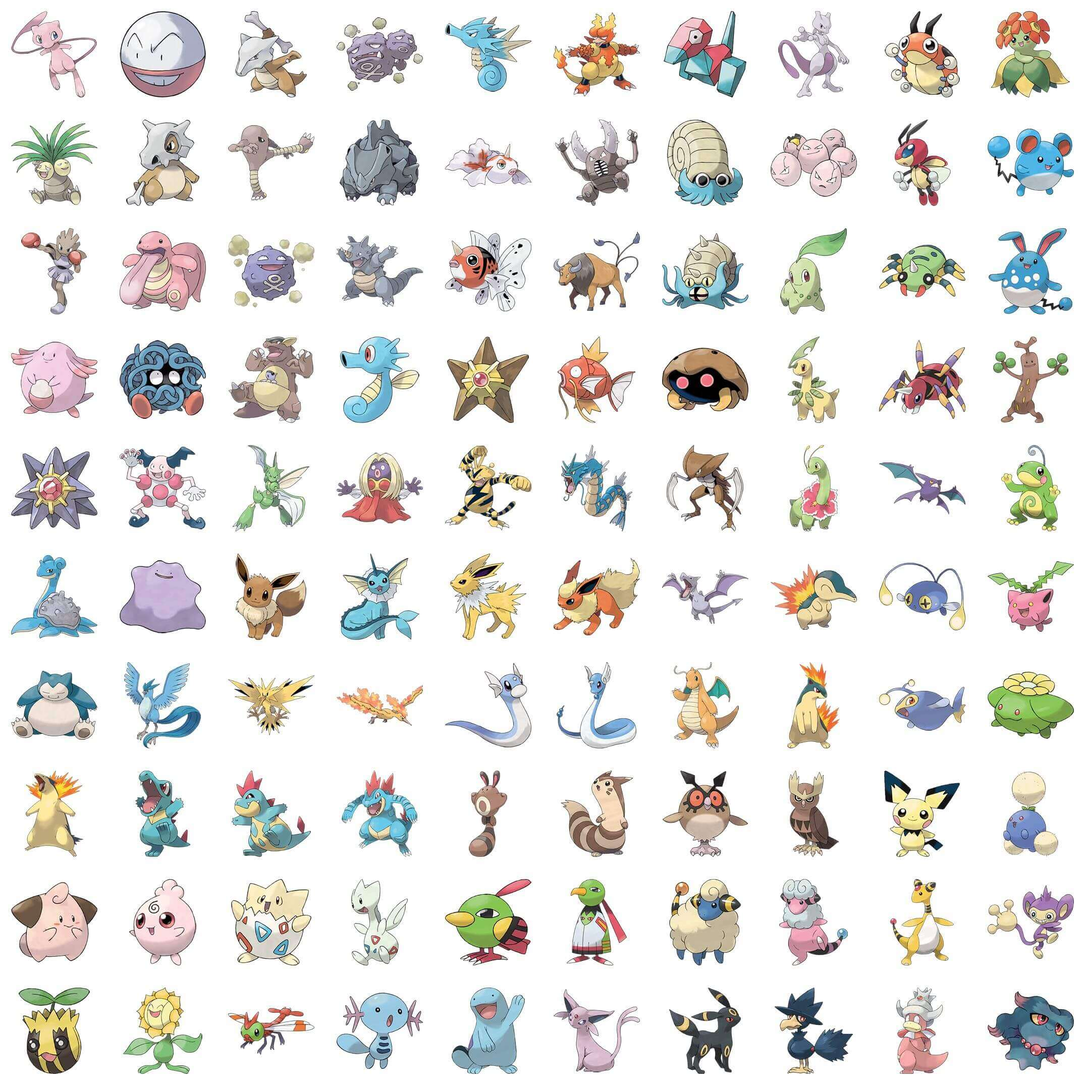
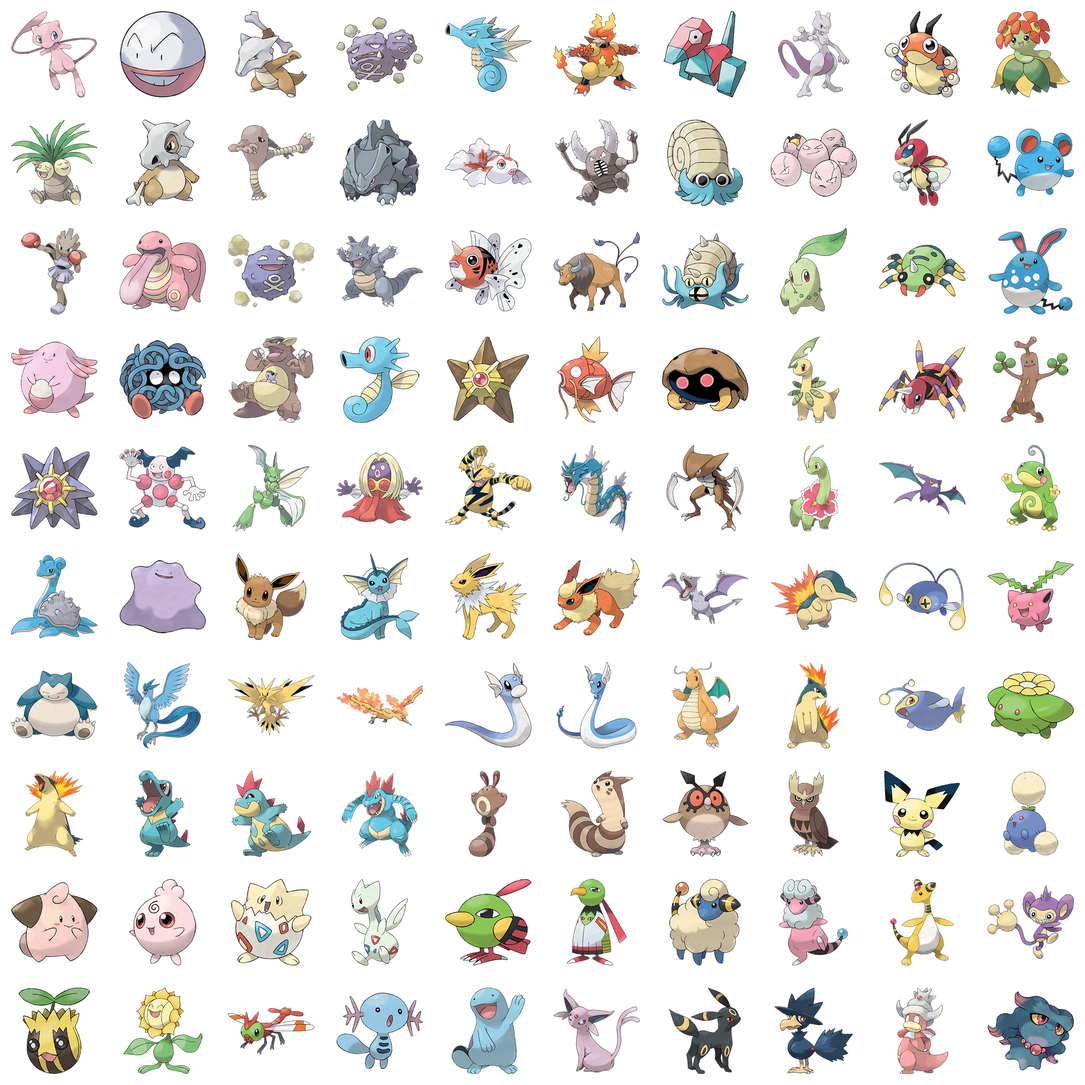
Update sprites

diff --git a/pokemon.min.css b/pokemon.min.css
@@ -1,1 +1,1 @@
-.i100,[class*=i0]{background-image:url(data/pokemon-0.jpg);background-size:1000px 1000px}.i001,.i101,.i201,.i301,.i401,.i501,.i601,.i701{background-position:-100px 0}.i002,.i102,.i202,.i302,.i402,.i502,.i602{background-position:-700px -100px}.i003,.i103,.i203,.i303,.i403,.i503,.i603,.i703{background-position:0 -100px}.i004,.i104,.i204,.i304,.i404,.i504,.i604,.i704{background-position:-100px -100px}.i005,.i105,.i205,.i305,.i405,.i505,.i605,.i705{background-position:-200px 0}.i006,.i106,.i206,.i306,.i406,.i506,.i606,.i706{background-position:-200px -100px}.i007,.i107,.i207,.i307,.i407,.i507,.i607,.i707{background-position:0 -200px}.i008,.i108,.i208,.i308,.i408,.i508,.i608,.i708{background-position:-100px -200px}.i009,.i109,.i209,.i309,.i409,.i509,.i609,.i709{background-position:-200px -200px}.i010,.i110,.i210,.i310,.i410,.i510,.i610,.i710{background-position:-300px 0}.i011,.i111,.i211,.i311,.i411,.i511,.i611,.i702{background-position:-300px -100px}.i012,.i112,.i212,.i312,.i412,.i512,.i612,.i712{background-position:-300px -200px}.i013,.i113,.i213,.i313,.i413,.i513,.i613,.i713{background-position:0 -300px}.i014,.i114,.i214,.i314,.i414,.i514,.i614,.i714{background-position:-100px -300px}.i015,.i115,.i215,.i315,.i415,.i515,.i615,.i715{background-position:-200px -300px}.i016,.i116,.i216,.i316,.i416,.i516,.i616,.i716{background-position:-300px -300px}.i017,.i117,.i217,.i317,.i417,.i517,.i617,.i717{background-position:-400px 0}.i018,.i118,.i218,.i318,.i418,.i518,.i618,.i718{background-position:-400px -100px}.i019,.i119,.i219,.i319,.i419,.i519,.i619,.i719{background-position:-400px -200px}.i020,.i120,.i220,.i320,.i420,.i520,.i620,.i720{background-position:-400px -300px}.i021,.i121,.i221,.i321,.i421,.i521,.i621{background-position:0 -400px}.i022,.i122,.i222,.i322,.i422,.i522,.i622{background-position:-100px -400px}.i023,.i123,.i223,.i323,.i423,.i523,.i623{background-position:-200px -400px}.i024,.i124,.i224,.i324,.i424,.i524,.i624{background-position:-300px -400px}.i025,.i125,.i225,.i325,.i425,.i525,.i625{background-position:-400px -400px}.i026,.i126,.i226,.i326,.i426,.i526,.i626{background-position:-500px 0}.i027,.i127,.i227,.i327,.i427,.i527,.i627{background-position:-500px -100px}.i028,.i128,.i228,.i328,.i428,.i528,.i628{background-position:-500px -200px}.i029,.i129,.i229,.i329,.i429,.i529,.i629{background-position:-500px -300px}.i030,.i130,.i230,.i330,.i430,.i530,.i630{background-position:-500px -400px}.i031,.i131,.i231,.i331,.i431,.i531,.i631{background-position:0 -500px}.i032,.i132,.i232,.i332,.i432,.i532,.i632{background-position:-100px -500px}.i033,.i133,.i233,.i333,.i433,.i533,.i633{background-position:-200px -500px}.i034,.i134,.i234,.i334,.i434,.i534,.i634{background-position:-300px -500px}.i035,.i135,.i235,.i335,.i435,.i535,.i635{background-position:-400px -500px}.i036,.i136,.i236,.i336,.i436,.i536,.i636{background-position:-500px -500px}.i037,.i137,.i237,.i337,.i437,.i537,.i637{background-position:-600px 0}.i038,.i138,.i238,.i338,.i438,.i538,.i638{background-position:-600px -100px}.i039,.i139,.i239,.i339,.i439,.i539,.i639{background-position:-600px -200px}.i040,.i140,.i240,.i340,.i440,.i540,.i640{background-position:-600px -300px}.i041,.i141,.i241,.i341,.i441,.i541,.i641{background-position:-600px -400px}.i042,.i142,.i242,.i342,.i442,.i542,.i642{background-position:-600px -500px}.i043,.i143,.i243,.i343,.i443,.i543,.i643{background-position:0 -600px}.i044,.i144,.i244,.i344,.i444,.i544,.i644{background-position:-100px -600px}.i045,.i145,.i245,.i345,.i445,.i545,.i645{background-position:-200px -600px}.i046,.i146,.i246,.i346,.i446,.i546,.i646{background-position:-300px -600px}.i047,.i147,.i247,.i347,.i447,.i547,.i647{background-position:-400px -600px}.i048,.i148,.i248,.i348,.i448,.i548,.i648{background-position:-500px -600px}.i049,.i149,.i249,.i349,.i449,.i549,.i649{background-position:-600px -600px}.i050,.i150,.i250,.i350,.i450,.i550,.i650{background-position:-700px 0}.i051,.i151,.i251,.i351,.i451,.i551,.i651,.i711{background-position:0 0}.i052,.i152,.i252,.i352,.i452,.i552,.i652{background-position:-700px -200px}.i053,.i153,.i253,.i353,.i453,.i553,.i653{background-position:-700px -300px}.i054,.i154,.i254,.i354,.i454,.i554,.i654{background-position:-700px -400px}.i055,.i155,.i255,.i355,.i455,.i555,.i655{background-position:-700px -500px}.i056,.i156,.i256,.i356,.i456,.i556,.i656{background-position:-700px -600px}.i057,.i157,.i257,.i357,.i457,.i557,.i657{background-position:0 -700px}.i058,.i158,.i258,.i358,.i458,.i558,.i658{background-position:-100px -700px}.i059,.i159,.i259,.i359,.i459,.i559,.i659{background-position:-200px -700px}.i060,.i160,.i260,.i360,.i460,.i560,.i660{background-position:-300px -700px}.i061,.i161,.i261,.i361,.i461,.i561,.i661{background-position:-400px -700px}.i062,.i162,.i262,.i362,.i462,.i562,.i662{background-position:-500px -700px}.i063,.i163,.i263,.i363,.i463,.i563,.i663{background-position:-600px -700px}.i064,.i164,.i264,.i364,.i464,.i564,.i664{background-position:-700px -700px}.i065,.i165,.i265,.i365,.i465,.i565,.i665{background-position:-800px 0}.i066,.i166,.i266,.i366,.i466,.i566,.i666{background-position:-800px -100px}.i067,.i167,.i267,.i367,.i467,.i567,.i667{background-position:-800px -200px}.i068,.i168,.i268,.i368,.i468,.i568,.i668{background-position:-800px -300px}.i069,.i169,.i269,.i369,.i469,.i569,.i669{background-position:-800px -400px}.i070,.i170,.i270,.i370,.i470,.i570,.i670{background-position:-800px -500px}.i071,.i171,.i271,.i371,.i471,.i571,.i671{background-position:-800px -600px}.i072,.i172,.i272,.i372,.i472,.i572,.i672{background-position:-800px -700px}.i073,.i173,.i273,.i373,.i473,.i573,.i673{background-position:0 -800px}.i074,.i174,.i274,.i374,.i474,.i574,.i674{background-position:-100px -800px}.i075,.i175,.i275,.i375,.i475,.i575,.i675{background-position:-200px -800px}.i076,.i176,.i276,.i376,.i476,.i576,.i676{background-position:-300px -800px}.i077,.i177,.i277,.i377,.i477,.i577,.i677{background-position:-400px -800px}.i078,.i178,.i278,.i378,.i478,.i578,.i678{background-position:-500px -800px}.i079,.i179,.i279,.i379,.i479,.i579,.i679{background-position:-600px -800px}.i080,.i180,.i280,.i380,.i480,.i580,.i680{background-position:-700px -800px}.i081,.i181,.i281,.i381,.i481,.i581,.i681{background-position:-800px -800px}.i082,.i182,.i282,.i382,.i482,.i582,.i682{background-position:-900px 0}.i083,.i183,.i283,.i383,.i483,.i583,.i683{background-position:-900px -100px}.i084,.i184,.i284,.i384,.i484,.i584,.i684{background-position:-900px -200px}.i085,.i185,.i285,.i385,.i485,.i585,.i685{background-position:-900px -300px}.i086,.i186,.i286,.i386,.i486,.i586,.i686{background-position:-900px -400px}.i087,.i187,.i287,.i387,.i487,.i587,.i687{background-position:-900px -500px}.i088,.i188,.i288,.i388,.i488,.i588,.i688{background-position:-900px -600px}.i089,.i189,.i289,.i389,.i489,.i589,.i689{background-position:-900px -700px}.i090,.i190,.i290,.i390,.i490,.i590,.i690{background-position:-900px -800px}.i091,.i191,.i291,.i391,.i491,.i591,.i691{background-position:0 -900px}.i092,.i192,.i292,.i392,.i492,.i592,.i692{background-position:-100px -900px}.i093,.i193,.i293,.i393,.i493,.i593,.i693{background-position:-200px -900px}.i094,.i194,.i294,.i394,.i494,.i594,.i694{background-position:-300px -900px}.i095,.i195,.i295,.i395,.i495,.i595,.i695{background-position:-400px -900px}.i096,.i196,.i296,.i396,.i496,.i596,.i696{background-position:-500px -900px}.i097,.i197,.i297,.i397,.i497,.i597,.i697{background-position:-600px -900px}.i098,.i198,.i298,.i398,.i498,.i598,.i698{background-position:-700px -900px}.i099,.i199,.i299,.i399,.i499,.i599,.i699{background-position:-800px -900px}.i100,.i200,.i300,.i400,.i500,.i600,.i700{background-position:-900px -900px}.i200,[class*=i1]:not(.i100){background-image:url(data/pokemon-1.jpg);background-size:1000px 1000px}.i300,[class*=i2]:not(.i200){background-image:url(data/pokemon-2.jpg);background-size:1000px 1000px}.i400,[class*=i3]:not(.i300){background-image:url(data/pokemon-3.jpg);background-size:1000px 1000px}.i500,[class*=i4]:not(.i400){background-image:url(data/pokemon-4.jpg);background-size:1000px 1000px}.i600,[class*=i5]:not(.i500){background-image:url(data/pokemon-5.jpg);background-size:1000px 1000px}.i700,[class*=i6]:not(.i600){background-image:url(data/pokemon-6.jpg);background-size:1000px 1000px}.i800,[class*=i7]:not(.i700){background-image:url(data/pokemon-7.jpg);background-size:500px 400px}
+.i200,[class*=i1]:not(.i100){background-image:url(data/pokemon-1.jpg);background-size:1000px 1000px}.i101{background-position:-100px 0}.i102{background-position:-700px -100px}.i103{background-position:0 -100px}.i104{background-position:-100px -100px}.i105{background-position:-200px 0}.i106{background-position:-200px -100px}.i107{background-position:0 -200px}.i108{background-position:-100px -200px}.i109{background-position:-200px -200px}.i110{background-position:-300px 0}.i111{background-position:-300px -100px}.i112{background-position:-300px -200px}.i113{background-position:0 -300px}.i114{background-position:-100px -300px}.i115{background-position:-200px -300px}.i116{background-position:-300px -300px}.i117{background-position:-400px 0}.i118{background-position:-400px -100px}.i119{background-position:-400px -200px}.i120{background-position:-400px -300px}.i121{background-position:0 -400px}.i122{background-position:-100px -400px}.i123{background-position:-200px -400px}.i124{background-position:-300px -400px}.i125{background-position:-400px -400px}.i126{background-position:-500px 0}.i127{background-position:-500px -100px}.i128{background-position:-500px -200px}.i129{background-position:-500px -300px}.i130{background-position:-500px -400px}.i131{background-position:0 -500px}.i132{background-position:-100px -500px}.i133{background-position:-200px -500px}.i134{background-position:-300px -500px}.i135{background-position:-400px -500px}.i136{background-position:-500px -500px}.i137{background-position:-600px 0}.i138{background-position:-600px -100px}.i139{background-position:-600px -200px}.i140{background-position:-600px -300px}.i141{background-position:-600px -400px}.i142{background-position:-600px -500px}.i143{background-position:0 -600px}.i144{background-position:-100px -600px}.i145{background-position:-200px -600px}.i146{background-position:-300px -600px}.i147{background-position:-400px -600px}.i148{background-position:-500px -600px}.i149{background-position:-600px -600px}.i150{background-position:-700px 0}.i151{background-position:0 0}.i152{background-position:-700px -200px}.i153{background-position:-700px -300px}.i154{background-position:-700px -400px}.i155{background-position:-700px -500px}.i156{background-position:-700px -600px}.i157{background-position:0 -700px}.i158{background-position:-100px -700px}.i159{background-position:-200px -700px}.i160{background-position:-300px -700px}.i161{background-position:-400px -700px}.i162{background-position:-500px -700px}.i163{background-position:-600px -700px}.i164{background-position:-700px -700px}.i165{background-position:-800px 0}.i166{background-position:-800px -100px}.i167{background-position:-800px -200px}.i168{background-position:-800px -300px}.i169{background-position:-800px -400px}.i170{background-position:-800px -500px}.i171{background-position:-800px -600px}.i172{background-position:-800px -700px}.i173{background-position:0 -800px}.i174{background-position:-100px -800px}.i175{background-position:-200px -800px}.i176{background-position:-300px -800px}.i177{background-position:-400px -800px}.i178{background-position:-500px -800px}.i179{background-position:-600px -800px}.i180{background-position:-700px -800px}.i181{background-position:-800px -800px}.i182{background-position:-900px 0}.i183{background-position:-900px -100px}.i184{background-position:-900px -200px}.i185{background-position:-900px -300px}.i186{background-position:-900px -400px}.i187{background-position:-900px -500px}.i188{background-position:-900px -600px}.i189{background-position:-900px -700px}.i190{background-position:-900px -800px}.i191{background-position:0 -900px}.i192{background-position:-100px -900px}.i193{background-position:-200px -900px}.i194{background-position:-300px -900px}.i195{background-position:-400px -900px}.i196{background-position:-500px -900px}.i197{background-position:-600px -900px}.i198{background-position:-700px -900px}.i199{background-position:-800px -900px}.i200{background-position:-900px -900px}.i300,[class*=i2]:not(.i200){background-image:url(data/pokemon-2.jpg);background-size:1000px 1000px}.i201{background-position:-100px 0}.i202{background-position:-700px -100px}.i203{background-position:0 -100px}.i204{background-position:-100px -100px}.i205{background-position:-200px 0}.i206{background-position:-200px -100px}.i207{background-position:0 -200px}.i208{background-position:-100px -200px}.i209{background-position:-200px -200px}.i210{background-position:-300px 0}.i211{background-position:-300px -100px}.i212{background-position:-300px -200px}.i213{background-position:0 -300px}.i214{background-position:-100px -300px}.i215{background-position:-200px -300px}.i216{background-position:-300px -300px}.i217{background-position:-400px 0}.i218{background-position:-400px -100px}.i219{background-position:-400px -200px}.i220{background-position:-400px -300px}.i221{background-position:0 -400px}.i222{background-position:-100px -400px}.i223{background-position:-200px -400px}.i224{background-position:-300px -400px}.i225{background-position:-400px -400px}.i226{background-position:-500px 0}.i227{background-position:-500px -100px}.i228{background-position:-500px -200px}.i229{background-position:-500px -300px}.i230{background-position:-500px -400px}.i231{background-position:0 -500px}.i232{background-position:-100px -500px}.i233{background-position:-200px -500px}.i234{background-position:-300px -500px}.i235{background-position:-400px -500px}.i236{background-position:-500px -500px}.i237{background-position:-600px 0}.i238{background-position:-600px -100px}.i239{background-position:-600px -200px}.i240{background-position:-600px -300px}.i241{background-position:-600px -400px}.i242{background-position:-600px -500px}.i243{background-position:0 -600px}.i244{background-position:-100px -600px}.i245{background-position:-200px -600px}.i246{background-position:-300px -600px}.i247{background-position:-400px -600px}.i248{background-position:-500px -600px}.i249{background-position:-600px -600px}.i250{background-position:-700px 0}.i251{background-position:0 0}.i252{background-position:-700px -200px}.i253{background-position:-700px -300px}.i254{background-position:-700px -400px}.i255{background-position:-700px -500px}.i256{background-position:-700px -600px}.i257{background-position:0 -700px}.i258{background-position:-100px -700px}.i259{background-position:-200px -700px}.i260{background-position:-300px -700px}.i261{background-position:-400px -700px}.i262{background-position:-500px -700px}.i263{background-position:-600px -700px}.i264{background-position:-700px -700px}.i265{background-position:-800px 0}.i266{background-position:-800px -100px}.i267{background-position:-800px -200px}.i268{background-position:-800px -300px}.i269{background-position:-800px -400px}.i270{background-position:-800px -500px}.i271{background-position:-800px -600px}.i272{background-position:-800px -700px}.i273{background-position:0 -800px}.i274{background-position:-100px -800px}.i275{background-position:-200px -800px}.i276{background-position:-300px -800px}.i277{background-position:-400px -800px}.i278{background-position:-500px -800px}.i279{background-position:-600px -800px}.i280{background-position:-700px -800px}.i281{background-position:-800px -800px}.i282{background-position:-900px 0}.i283{background-position:-900px -100px}.i284{background-position:-900px -200px}.i285{background-position:-900px -300px}.i286{background-position:-900px -400px}.i287{background-position:-900px -500px}.i288{background-position:-900px -600px}.i289{background-position:-900px -700px}.i290{background-position:-900px -800px}.i291{background-position:0 -900px}.i292{background-position:-100px -900px}.i293{background-position:-200px -900px}.i294{background-position:-300px -900px}.i295{background-position:-400px -900px}.i296{background-position:-500px -900px}.i297{background-position:-600px -900px}.i298{background-position:-700px -900px}.i299{background-position:-800px -900px}.i300{background-position:-900px -900px}.i400,[class*=i3]:not(.i300){background-image:url(data/pokemon-3.jpg);background-size:1000px 1000px}.i301{background-position:-100px 0}.i302{background-position:-700px -100px}.i303{background-position:0 -100px}.i304{background-position:-100px -100px}.i305{background-position:-200px 0}.i306{background-position:-200px -100px}.i307{background-position:0 -200px}.i308{background-position:-100px -200px}.i309{background-position:-200px -200px}.i310{background-position:-300px 0}.i311{background-position:-300px -100px}.i312{background-position:-300px -200px}.i313{background-position:0 -300px}.i314{background-position:-100px -300px}.i315{background-position:-200px -300px}.i316{background-position:-300px -300px}.i317{background-position:-400px 0}.i318{background-position:-400px -100px}.i319{background-position:-400px -200px}.i320{background-position:-400px -300px}.i321{background-position:0 -400px}.i322{background-position:-100px -400px}.i323{background-position:-200px -400px}.i324{background-position:-300px -400px}.i325{background-position:-400px -400px}.i326{background-position:-500px 0}.i327{background-position:-500px -100px}.i328{background-position:-500px -200px}.i329{background-position:-500px -300px}.i330{background-position:-500px -400px}.i331{background-position:0 -500px}.i332{background-position:-100px -500px}.i333{background-position:-200px -500px}.i334{background-position:-300px -500px}.i335{background-position:-400px -500px}.i336{background-position:-500px -500px}.i337{background-position:-600px 0}.i338{background-position:-600px -100px}.i339{background-position:-600px -200px}.i340{background-position:-600px -300px}.i341{background-position:-600px -400px}.i342{background-position:-600px -500px}.i343{background-position:0 -600px}.i344{background-position:-100px -600px}.i345{background-position:-200px -600px}.i346{background-position:-300px -600px}.i347{background-position:-400px -600px}.i348{background-position:-500px -600px}.i349{background-position:-600px -600px}.i350{background-position:-700px 0}.i351{background-position:0 0}.i352{background-position:-700px -200px}.i353{background-position:-700px -300px}.i354{background-position:-700px -400px}.i355{background-position:-700px -500px}.i356{background-position:-700px -600px}.i357{background-position:0 -700px}.i358{background-position:-100px -700px}.i359{background-position:-200px -700px}.i360{background-position:-300px -700px}.i361{background-position:-400px -700px}.i362{background-position:-500px -700px}.i363{background-position:-600px -700px}.i364{background-position:-700px -700px}.i365{background-position:-800px 0}.i366{background-position:-800px -100px}.i367{background-position:-800px -200px}.i368{background-position:-800px -300px}.i369{background-position:-800px -400px}.i370{background-position:-800px -500px}.i371{background-position:-800px -600px}.i372{background-position:-800px -700px}.i373{background-position:0 -800px}.i374{background-position:-100px -800px}.i375{background-position:-200px -800px}.i376{background-position:-300px -800px}.i377{background-position:-400px -800px}.i378{background-position:-500px -800px}.i379{background-position:-600px -800px}.i380{background-position:-700px -800px}.i381{background-position:-800px -800px}.i382{background-position:-900px 0}.i383{background-position:-900px -100px}.i384{background-position:-900px -200px}.i385{background-position:-900px -300px}.i386{background-position:-900px -400px}.i387{background-position:-900px -500px}.i388{background-position:-900px -600px}.i389{background-position:-900px -700px}.i390{background-position:-900px -800px}.i391{background-position:0 -900px}.i392{background-position:-100px -900px}.i393{background-position:-200px -900px}.i394{background-position:-300px -900px}.i395{background-position:-400px -900px}.i396{background-position:-500px -900px}.i397{background-position:-600px -900px}.i398{background-position:-700px -900px}.i399{background-position:-800px -900px}.i400{background-position:-900px -900px}.i500,[class*=i4]:not(.i400){background-image:url(data/pokemon-4.jpg);background-size:1000px 1000px}.i401{background-position:-100px 0}.i402{background-position:-700px -100px}.i403{background-position:0 -100px}.i404{background-position:-100px -100px}.i405{background-position:-200px 0}.i406{background-position:-200px -100px}.i407{background-position:0 -200px}.i408{background-position:-100px -200px}.i409{background-position:-200px -200px}.i410{background-position:-300px 0}.i411{background-position:-300px -100px}.i412{background-position:-300px -200px}.i413{background-position:0 -300px}.i414{background-position:-100px -300px}.i415{background-position:-200px -300px}.i416{background-position:-300px -300px}.i417{background-position:-400px 0}.i418{background-position:-400px -100px}.i419{background-position:-400px -200px}.i420{background-position:-400px -300px}.i421{background-position:0 -400px}.i422{background-position:-100px -400px}.i423{background-position:-200px -400px}.i424{background-position:-300px -400px}.i425{background-position:-400px -400px}.i426{background-position:-500px 0}.i427{background-position:-500px -100px}.i428{background-position:-500px -200px}.i429{background-position:-500px -300px}.i430{background-position:-500px -400px}.i431{background-position:0 -500px}.i432{background-position:-100px -500px}.i433{background-position:-200px -500px}.i434{background-position:-300px -500px}.i435{background-position:-400px -500px}.i436{background-position:-500px -500px}.i437{background-position:-600px 0}.i438{background-position:-600px -100px}.i439{background-position:-600px -200px}.i440{background-position:-600px -300px}.i441{background-position:-600px -400px}.i442{background-position:-600px -500px}.i443{background-position:0 -600px}.i444{background-position:-100px -600px}.i445{background-position:-200px -600px}.i446{background-position:-300px -600px}.i447{background-position:-400px -600px}.i448{background-position:-500px -600px}.i449{background-position:-600px -600px}.i450{background-position:-700px 0}.i451{background-position:0 0}.i452{background-position:-700px -200px}.i453{background-position:-700px -300px}.i454{background-position:-700px -400px}.i455{background-position:-700px -500px}.i456{background-position:-700px -600px}.i457{background-position:0 -700px}.i458{background-position:-100px -700px}.i459{background-position:-200px -700px}.i460{background-position:-300px -700px}.i461{background-position:-400px -700px}.i462{background-position:-500px -700px}.i463{background-position:-600px -700px}.i464{background-position:-700px -700px}.i465{background-position:-800px 0}.i466{background-position:-800px -100px}.i467{background-position:-800px -200px}.i468{background-position:-800px -300px}.i469{background-position:-800px -400px}.i470{background-position:-800px -500px}.i471{background-position:-800px -600px}.i472{background-position:-800px -700px}.i473{background-position:0 -800px}.i474{background-position:-100px -800px}.i475{background-position:-200px -800px}.i476{background-position:-300px -800px}.i477{background-position:-400px -800px}.i478{background-position:-500px -800px}.i479{background-position:-600px -800px}.i480{background-position:-700px -800px}.i481{background-position:-800px -800px}.i482{background-position:-900px 0}.i483{background-position:-900px -100px}.i484{background-position:-900px -200px}.i485{background-position:-900px -300px}.i486{background-position:-900px -400px}.i487{background-position:-900px -500px}.i488{background-position:-900px -600px}.i489{background-position:-900px -700px}.i490{background-position:-900px -800px}.i491{background-position:0 -900px}.i492{background-position:-100px -900px}.i493{background-position:-200px -900px}.i494{background-position:-300px -900px}.i495{background-position:-400px -900px}.i496{background-position:-500px -900px}.i497{background-position:-600px -900px}.i498{background-position:-700px -900px}.i499{background-position:-800px -900px}.i500{background-position:-900px -900px}.i600,[class*=i5]:not(.i500){background-image:url(data/pokemon-5.jpg);background-size:1000px 1000px}.i501{background-position:-100px 0}.i502{background-position:-700px -100px}.i503{background-position:0 -100px}.i504{background-position:-100px -100px}.i505{background-position:-200px 0}.i506{background-position:-200px -100px}.i507{background-position:0 -200px}.i508{background-position:-100px -200px}.i509{background-position:-200px -200px}.i510{background-position:-300px 0}.i511{background-position:-300px -100px}.i512{background-position:-300px -200px}.i513{background-position:0 -300px}.i514{background-position:-100px -300px}.i515{background-position:-200px -300px}.i516{background-position:-300px -300px}.i517{background-position:-400px 0}.i518{background-position:-400px -100px}.i519{background-position:-400px -200px}.i520{background-position:-400px -300px}.i521{background-position:0 -400px}.i522{background-position:-100px -400px}.i523{background-position:-200px -400px}.i524{background-position:-300px -400px}.i525{background-position:-400px -400px}.i526{background-position:-500px 0}.i527{background-position:-500px -100px}.i528{background-position:-500px -200px}.i529{background-position:-500px -300px}.i530{background-position:-500px -400px}.i531{background-position:0 -500px}.i532{background-position:-100px -500px}.i533{background-position:-200px -500px}.i534{background-position:-300px -500px}.i535{background-position:-400px -500px}.i536{background-position:-500px -500px}.i537{background-position:-600px 0}.i538{background-position:-600px -100px}.i539{background-position:-600px -200px}.i540{background-position:-600px -300px}.i541{background-position:-600px -400px}.i542{background-position:-600px -500px}.i543{background-position:0 -600px}.i544{background-position:-100px -600px}.i545{background-position:-200px -600px}.i546{background-position:-300px -600px}.i547{background-position:-400px -600px}.i548{background-position:-500px -600px}.i549{background-position:-600px -600px}.i550{background-position:-700px 0}.i551{background-position:0 0}.i552{background-position:-700px -200px}.i553{background-position:-700px -300px}.i554{background-position:-700px -400px}.i555{background-position:-700px -500px}.i556{background-position:-700px -600px}.i557{background-position:0 -700px}.i558{background-position:-100px -700px}.i559{background-position:-200px -700px}.i560{background-position:-300px -700px}.i561{background-position:-400px -700px}.i562{background-position:-500px -700px}.i563{background-position:-600px -700px}.i564{background-position:-700px -700px}.i565{background-position:-800px 0}.i566{background-position:-800px -100px}.i567{background-position:-800px -200px}.i568{background-position:-800px -300px}.i569{background-position:-800px -400px}.i570{background-position:-800px -500px}.i571{background-position:-800px -600px}.i572{background-position:-800px -700px}.i573{background-position:0 -800px}.i574{background-position:-100px -800px}.i575{background-position:-200px -800px}.i576{background-position:-300px -800px}.i577{background-position:-400px -800px}.i578{background-position:-500px -800px}.i579{background-position:-600px -800px}.i580{background-position:-700px -800px}.i581{background-position:-800px -800px}.i582{background-position:-900px 0}.i583{background-position:-900px -100px}.i584{background-position:-900px -200px}.i585{background-position:-900px -300px}.i586{background-position:-900px -400px}.i587{background-position:-900px -500px}.i588{background-position:-900px -600px}.i589{background-position:-900px -700px}.i590{background-position:-900px -800px}.i591{background-position:0 -900px}.i592{background-position:-100px -900px}.i593{background-position:-200px -900px}.i594{background-position:-300px -900px}.i595{background-position:-400px -900px}.i596{background-position:-500px -900px}.i597{background-position:-600px -900px}.i598{background-position:-700px -900px}.i599{background-position:-800px -900px}.i600{background-position:-900px -900px}.i700,[class*=i6]:not(.i600){background-image:url(data/pokemon-6.jpg);background-size:1000px 1000px}.i601{background-position:-100px 0}.i602{background-position:-700px -100px}.i603{background-position:0 -100px}.i604{background-position:-100px -100px}.i605{background-position:-200px 0}.i606{background-position:-200px -100px}.i607{background-position:0 -200px}.i608{background-position:-100px -200px}.i609{background-position:-200px -200px}.i610{background-position:-300px 0}.i611{background-position:-300px -100px}.i612{background-position:-300px -200px}.i613{background-position:0 -300px}.i614{background-position:-100px -300px}.i615{background-position:-200px -300px}.i616{background-position:-300px -300px}.i617{background-position:-400px 0}.i618{background-position:-400px -100px}.i619{background-position:-400px -200px}.i620{background-position:-400px -300px}.i621{background-position:0 -400px}.i622{background-position:-100px -400px}.i623{background-position:-200px -400px}.i624{background-position:-300px -400px}.i625{background-position:-400px -400px}.i626{background-position:-500px 0}.i627{background-position:-500px -100px}.i628{background-position:-500px -200px}.i629{background-position:-500px -300px}.i630{background-position:-500px -400px}.i631{background-position:0 -500px}.i632{background-position:-100px -500px}.i633{background-position:-200px -500px}.i634{background-position:-300px -500px}.i635{background-position:-400px -500px}.i636{background-position:-500px -500px}.i637{background-position:-600px 0}.i638{background-position:-600px -100px}.i639{background-position:-600px -200px}.i640{background-position:-600px -300px}.i641{background-position:-600px -400px}.i642{background-position:-600px -500px}.i643{background-position:0 -600px}.i644{background-position:-100px -600px}.i645{background-position:-200px -600px}.i646{background-position:-300px -600px}.i647{background-position:-400px -600px}.i648{background-position:-500px -600px}.i649{background-position:-600px -600px}.i650{background-position:-700px 0}.i651{background-position:0 0}.i652{background-position:-700px -200px}.i653{background-position:-700px -300px}.i654{background-position:-700px -400px}.i655{background-position:-700px -500px}.i656{background-position:-700px -600px}.i657{background-position:0 -700px}.i658{background-position:-100px -700px}.i659{background-position:-200px -700px}.i660{background-position:-300px -700px}.i661{background-position:-400px -700px}.i662{background-position:-500px -700px}.i663{background-position:-600px -700px}.i664{background-position:-700px -700px}.i665{background-position:-800px 0}.i666{background-position:-800px -100px}.i667{background-position:-800px -200px}.i668{background-position:-800px -300px}.i669{background-position:-800px -400px}.i670{background-position:-800px -500px}.i671{background-position:-800px -600px}.i672{background-position:-800px -700px}.i673{background-position:0 -800px}.i674{background-position:-100px -800px}.i675{background-position:-200px -800px}.i676{background-position:-300px -800px}.i677{background-position:-400px -800px}.i678{background-position:-500px -800px}.i679{background-position:-600px -800px}.i680{background-position:-700px -800px}.i681{background-position:-800px -800px}.i682{background-position:-900px 0}.i683{background-position:-900px -100px}.i684{background-position:-900px -200px}.i685{background-position:-900px -300px}.i686{background-position:-900px -400px}.i687{background-position:-900px -500px}.i688{background-position:-900px -600px}.i689{background-position:-900px -700px}.i690{background-position:-900px -800px}.i691{background-position:0 -900px}.i692{background-position:-100px -900px}.i693{background-position:-200px -900px}.i694{background-position:-300px -900px}.i695{background-position:-400px -900px}.i696{background-position:-500px -900px}.i697{background-position:-600px -900px}.i698{background-position:-700px -900px}.i699{background-position:-800px -900px}.i700{background-position:-900px -900px}.i800,[class*=i7]:not(.i700){background-image:url(data/pokemon-7.jpg);background-size:1000px 1000px}.i701{background-position:-100px 0}.i702{background-position:-700px -100px}.i703{background-position:0 -100px}.i704{background-position:-100px -100px}.i705{background-position:-200px 0}.i706{background-position:-200px -100px}.i707{background-position:0 -200px}.i708{background-position:-100px -200px}.i709{background-position:-200px -200px}.i710{background-position:-300px 0}.i711{background-position:-300px -100px}.i712{background-position:-300px -200px}.i713{background-position:0 -300px}.i714{background-position:-100px -300px}.i715{background-position:-200px -300px}.i716{background-position:-300px -300px}.i717{background-position:-400px 0}.i718{background-position:-400px -100px}.i719{background-position:-400px -200px}.i720{background-position:-400px -300px}.i721{background-position:0 -400px}.i722{background-position:-100px -400px}.i723{background-position:-200px -400px}.i724{background-position:-300px -400px}.i725{background-position:-400px -400px}.i726{background-position:-500px 0}.i727{background-position:-500px -100px}.i728{background-position:-500px -200px}.i729{background-position:-500px -300px}.i730{background-position:-500px -400px}.i731{background-position:0 -500px}.i732{background-position:-100px -500px}.i733{background-position:-200px -500px}.i734{background-position:-300px -500px}.i735{background-position:-400px -500px}.i736{background-position:-500px -500px}.i737{background-position:-600px 0}.i738{background-position:-600px -100px}.i739{background-position:-600px -200px}.i740{background-position:-600px -300px}.i741{background-position:-600px -400px}.i742{background-position:-600px -500px}.i743{background-position:0 -600px}.i744{background-position:-100px -600px}.i745{background-position:-200px -600px}.i746{background-position:-300px -600px}.i747{background-position:-400px -600px}.i748{background-position:-500px -600px}.i749{background-position:-600px -600px}.i750{background-position:-700px 0}.i751{background-position:0 0}.i752{background-position:-700px -200px}.i753{background-position:-700px -300px}.i754{background-position:-700px -400px}.i755{background-position:-700px -500px}.i756{background-position:-700px -600px}.i757{background-position:0 -700px}.i758{background-position:-100px -700px}.i759{background-position:-200px -700px}.i760{background-position:-300px -700px}.i761{background-position:-400px -700px}.i762{background-position:-500px -700px}.i763{background-position:-600px -700px}.i764{background-position:-700px -700px}.i765{background-position:-800px 0}.i766{background-position:-800px -100px}.i767{background-position:-800px -200px}.i768{background-position:-800px -300px}.i769{background-position:-800px -400px}.i770{background-position:-800px -500px}.i771{background-position:-800px -600px}.i772{background-position:-800px -700px}.i773{background-position:0 -800px}.i774{background-position:-100px -800px}.i775{background-position:-200px -800px}.i776{background-position:-300px -800px}.i777{background-position:-400px -800px}.i778{background-position:-500px -800px}.i779{background-position:-600px -800px}.i780{background-position:-700px -800px}.i781{background-position:-800px -800px}.i782{background-position:-900px 0}.i783{background-position:-900px -100px}.i784{background-position:-900px -200px}.i785{background-position:-900px -300px}.i786{background-position:-900px -400px}.i787{background-position:-900px -500px}.i788{background-position:-900px -600px}.i789{background-position:-900px -700px}.i790{background-position:-900px -800px}.i791{background-position:0 -900px}.i792{background-position:-100px -900px}.i793{background-position:-200px -900px}.i794{background-position:-300px -900px}.i795{background-position:-400px -900px}.i796{background-position:-500px -900px}.i797{background-position:-600px -900px}.i798{background-position:-700px -900px}.i799{background-position:-800px -900px}.i800{background-position:-900px -900px}.i900,[class*=i8]:not(.i800){background-image:url(data/pokemon-8.jpg);background-size:100px 100px}.i801{background-position:0 0}

diff --git a/pokemon.css b/pokemon.css
@@ -1,104 +1,4 @@
-[class*=i0],.i100{background-image: url(data/pokemon-0.jpg);background-size: 1000px 1000px;}
-.i001{background-position: -100px -0px;}
-.i002{background-position: -700px -100px;}
-.i003{background-position: -0px -100px;}
-.i004{background-position: -100px -100px;}
-.i005{background-position: -200px -0px;}
-.i006{background-position: -200px -100px;}
-.i007{background-position: -0px -200px;}
-.i008{background-position: -100px -200px;}
-.i009{background-position: -200px -200px;}
-.i010{background-position: -300px -0px;}
-.i011{background-position: -300px -100px;}
-.i012{background-position: -300px -200px;}
-.i013{background-position: -0px -300px;}
-.i014{background-position: -100px -300px;}
-.i015{background-position: -200px -300px;}
-.i016{background-position: -300px -300px;}
-.i017{background-position: -400px -0px;}
-.i018{background-position: -400px -100px;}
-.i019{background-position: -400px -200px;}
-.i020{background-position: -400px -300px;}
-.i021{background-position: -0px -400px;}
-.i022{background-position: -100px -400px;}
-.i023{background-position: -200px -400px;}
-.i024{background-position: -300px -400px;}
-.i025{background-position: -400px -400px;}
-.i026{background-position: -500px -0px;}
-.i027{background-position: -500px -100px;}
-.i028{background-position: -500px -200px;}
-.i029{background-position: -500px -300px;}
-.i030{background-position: -500px -400px;}
-.i031{background-position: -0px -500px;}
-.i032{background-position: -100px -500px;}
-.i033{background-position: -200px -500px;}
-.i034{background-position: -300px -500px;}
-.i035{background-position: -400px -500px;}
-.i036{background-position: -500px -500px;}
-.i037{background-position: -600px -0px;}
-.i038{background-position: -600px -100px;}
-.i039{background-position: -600px -200px;}
-.i040{background-position: -600px -300px;}
-.i041{background-position: -600px -400px;}
-.i042{background-position: -600px -500px;}
-.i043{background-position: -0px -600px;}
-.i044{background-position: -100px -600px;}
-.i045{background-position: -200px -600px;}
-.i046{background-position: -300px -600px;}
-.i047{background-position: -400px -600px;}
-.i048{background-position: -500px -600px;}
-.i049{background-position: -600px -600px;}
-.i050{background-position: -700px -0px;}
-.i051{background-position: -0px -0px;}
-.i052{background-position: -700px -200px;}
-.i053{background-position: -700px -300px;}
-.i054{background-position: -700px -400px;}
-.i055{background-position: -700px -500px;}
-.i056{background-position: -700px -600px;}
-.i057{background-position: -0px -700px;}
-.i058{background-position: -100px -700px;}
-.i059{background-position: -200px -700px;}
-.i060{background-position: -300px -700px;}
-.i061{background-position: -400px -700px;}
-.i062{background-position: -500px -700px;}
-.i063{background-position: -600px -700px;}
-.i064{background-position: -700px -700px;}
-.i065{background-position: -800px -0px;}
-.i066{background-position: -800px -100px;}
-.i067{background-position: -800px -200px;}
-.i068{background-position: -800px -300px;}
-.i069{background-position: -800px -400px;}
-.i070{background-position: -800px -500px;}
-.i071{background-position: -800px -600px;}
-.i072{background-position: -800px -700px;}
-.i073{background-position: -0px -800px;}
-.i074{background-position: -100px -800px;}
-.i075{background-position: -200px -800px;}
-.i076{background-position: -300px -800px;}
-.i077{background-position: -400px -800px;}
-.i078{background-position: -500px -800px;}
-.i079{background-position: -600px -800px;}
-.i080{background-position: -700px -800px;}
-.i081{background-position: -800px -800px;}
-.i082{background-position: -900px -0px;}
-.i083{background-position: -900px -100px;}
-.i084{background-position: -900px -200px;}
-.i085{background-position: -900px -300px;}
-.i086{background-position: -900px -400px;}
-.i087{background-position: -900px -500px;}
-.i088{background-position: -900px -600px;}
-.i089{background-position: -900px -700px;}
-.i090{background-position: -900px -800px;}
-.i091{background-position: -0px -900px;}
-.i092{background-position: -100px -900px;}
-.i093{background-position: -200px -900px;}
-.i094{background-position: -300px -900px;}
-.i095{background-position: -400px -900px;}
-.i096{background-position: -500px -900px;}
-.i097{background-position: -600px -900px;}
-.i098{background-position: -700px -900px;}
-.i099{background-position: -800px -900px;}
-.i100{background-position: -900px -900px;}
+
 [class*=i1]:not(.i100),.i200{background-image: url(data/pokemon-1.jpg);background-size: 1000px 1000px;}
 .i101{background-position: -100px -0px;}
 .i102{background-position: -700px -100px;}
@@ -705,9 +605,9 @@
 .i698{background-position: -700px -900px;}
 .i699{background-position: -800px -900px;}
 .i700{background-position: -900px -900px;}
-[class*=i7]:not(.i700),.i800{background-image: url(data/pokemon-7.jpg);background-size: 500px 400px;}
+[class*=i7]:not(.i700),.i800{background-image: url(data/pokemon-7.jpg);background-size: 1000px 1000px;}
 .i701{background-position: -100px -0px;}
-.i702{background-position: -300px -100px;}
+.i702{background-position: -700px -100px;}
 .i703{background-position: -0px -100px;}
 .i704{background-position: -100px -100px;}
 .i705{background-position: -200px -0px;}
@@ -716,7 +616,7 @@
 .i708{background-position: -100px -200px;}
 .i709{background-position: -200px -200px;}
 .i710{background-position: -300px -0px;}
-.i711{background-position: -0px -0px;}
+.i711{background-position: -300px -100px;}
 .i712{background-position: -300px -200px;}
 .i713{background-position: -0px -300px;}
 .i714{background-position: -100px -300px;}
@@ -726,3 +626,85 @@
 .i718{background-position: -400px -100px;}
 .i719{background-position: -400px -200px;}
 .i720{background-position: -400px -300px;}
+.i721{background-position: -0px -400px;}
+.i722{background-position: -100px -400px;}
+.i723{background-position: -200px -400px;}
+.i724{background-position: -300px -400px;}
+.i725{background-position: -400px -400px;}
+.i726{background-position: -500px -0px;}
+.i727{background-position: -500px -100px;}
+.i728{background-position: -500px -200px;}
+.i729{background-position: -500px -300px;}
+.i730{background-position: -500px -400px;}
+.i731{background-position: -0px -500px;}
+.i732{background-position: -100px -500px;}
+.i733{background-position: -200px -500px;}
+.i734{background-position: -300px -500px;}
+.i735{background-position: -400px -500px;}
+.i736{background-position: -500px -500px;}
+.i737{background-position: -600px -0px;}
+.i738{background-position: -600px -100px;}
+.i739{background-position: -600px -200px;}
+.i740{background-position: -600px -300px;}
+.i741{background-position: -600px -400px;}
+.i742{background-position: -600px -500px;}
+.i743{background-position: -0px -600px;}
+.i744{background-position: -100px -600px;}
+.i745{background-position: -200px -600px;}
+.i746{background-position: -300px -600px;}
+.i747{background-position: -400px -600px;}
+.i748{background-position: -500px -600px;}
+.i749{background-position: -600px -600px;}
+.i750{background-position: -700px -0px;}
+.i751{background-position: -0px -0px;}
+.i752{background-position: -700px -200px;}
+.i753{background-position: -700px -300px;}
+.i754{background-position: -700px -400px;}
+.i755{background-position: -700px -500px;}
+.i756{background-position: -700px -600px;}
+.i757{background-position: -0px -700px;}
+.i758{background-position: -100px -700px;}
+.i759{background-position: -200px -700px;}
+.i760{background-position: -300px -700px;}
+.i761{background-position: -400px -700px;}
+.i762{background-position: -500px -700px;}
+.i763{background-position: -600px -700px;}
+.i764{background-position: -700px -700px;}
+.i765{background-position: -800px -0px;}
+.i766{background-position: -800px -100px;}
+.i767{background-position: -800px -200px;}
+.i768{background-position: -800px -300px;}
+.i769{background-position: -800px -400px;}
+.i770{background-position: -800px -500px;}
+.i771{background-position: -800px -600px;}
+.i772{background-position: -800px -700px;}
+.i773{background-position: -0px -800px;}
+.i774{background-position: -100px -800px;}
+.i775{background-position: -200px -800px;}
+.i776{background-position: -300px -800px;}
+.i777{background-position: -400px -800px;}
+.i778{background-position: -500px -800px;}
+.i779{background-position: -600px -800px;}
+.i780{background-position: -700px -800px;}
+.i781{background-position: -800px -800px;}
+.i782{background-position: -900px -0px;}
+.i783{background-position: -900px -100px;}
+.i784{background-position: -900px -200px;}
+.i785{background-position: -900px -300px;}
+.i786{background-position: -900px -400px;}
+.i787{background-position: -900px -500px;}
+.i788{background-position: -900px -600px;}
+.i789{background-position: -900px -700px;}
+.i790{background-position: -900px -800px;}
+.i791{background-position: -0px -900px;}
+.i792{background-position: -100px -900px;}
+.i793{background-position: -200px -900px;}
+.i794{background-position: -300px -900px;}
+.i795{background-position: -400px -900px;}
+.i796{background-position: -500px -900px;}
+.i797{background-position: -600px -900px;}
+.i798{background-position: -700px -900px;}
+.i799{background-position: -800px -900px;}
+.i800{background-position: -900px -900px;}
+[class*=i8]:not(.i800),.i900{background-image: url(data/pokemon-8.jpg);background-size: 100px 100px;}
+.i801{background-position: -0px -0px;}
